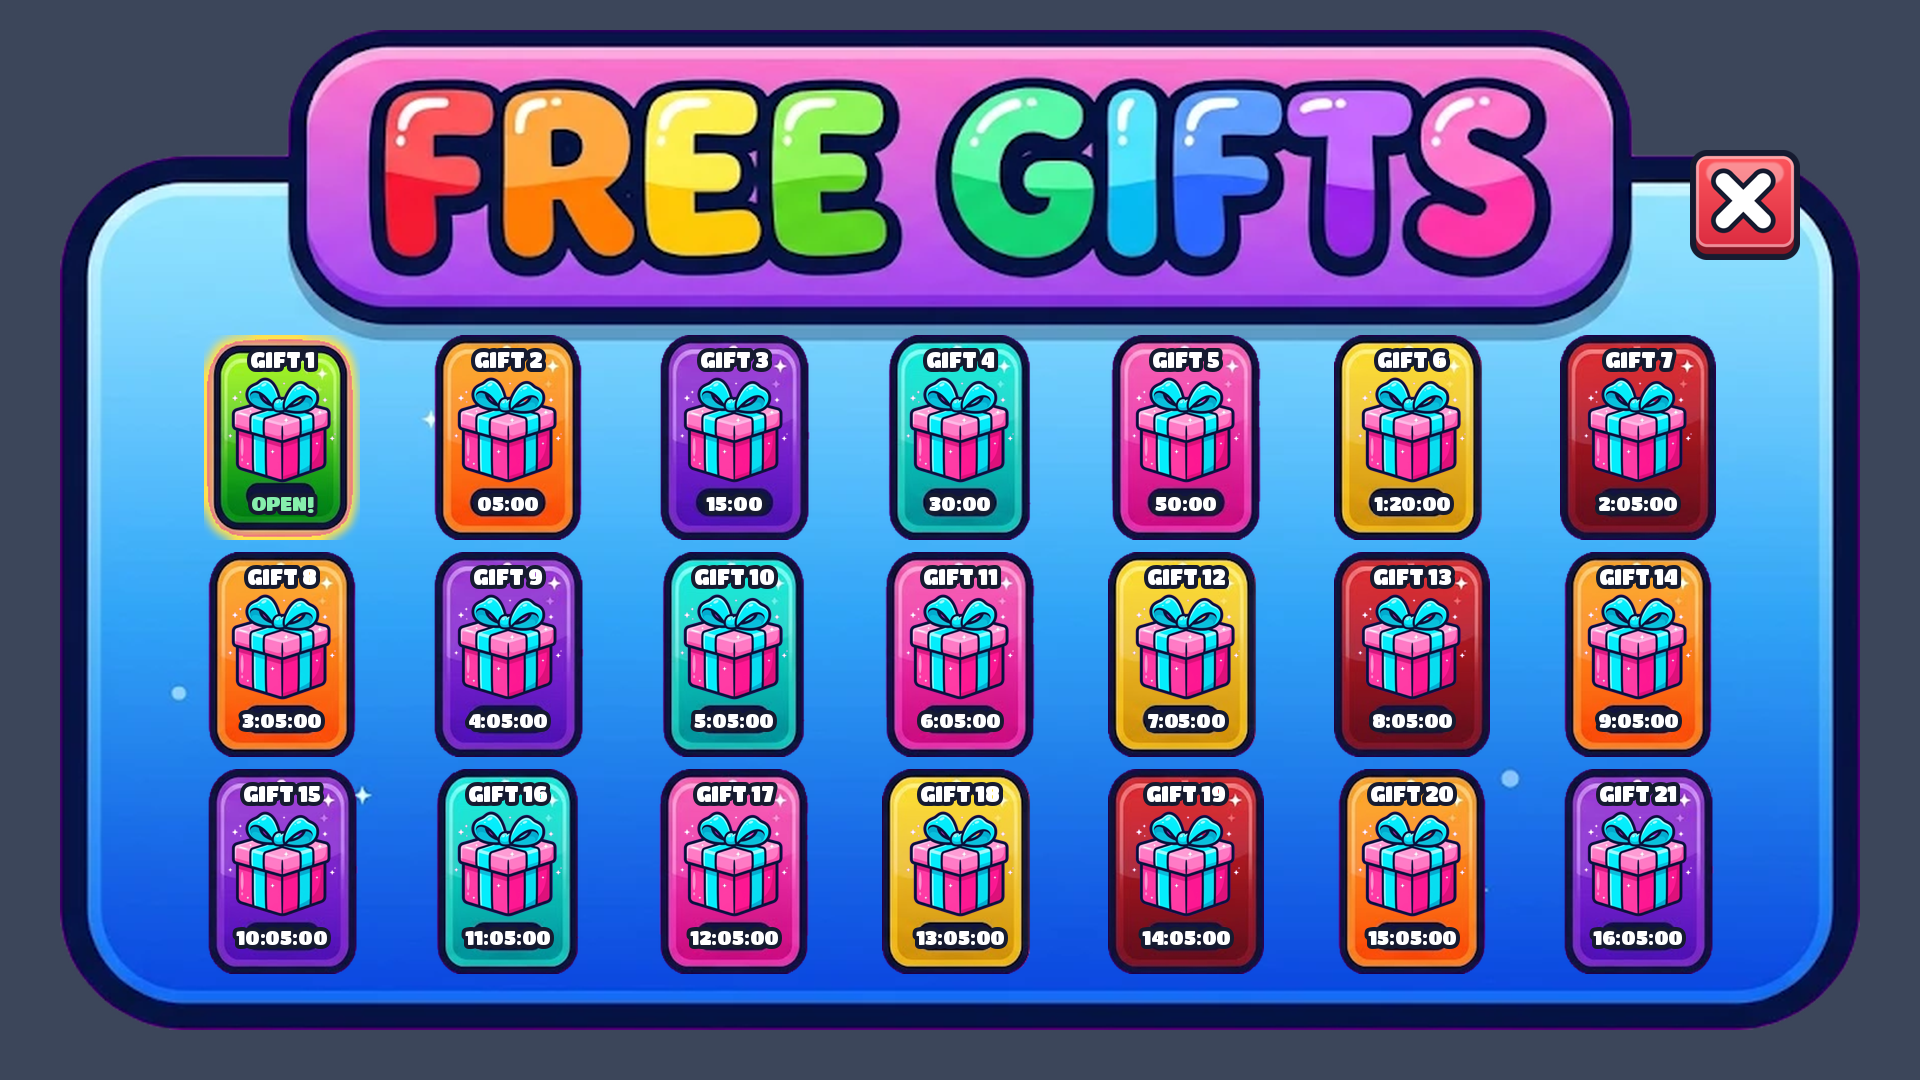
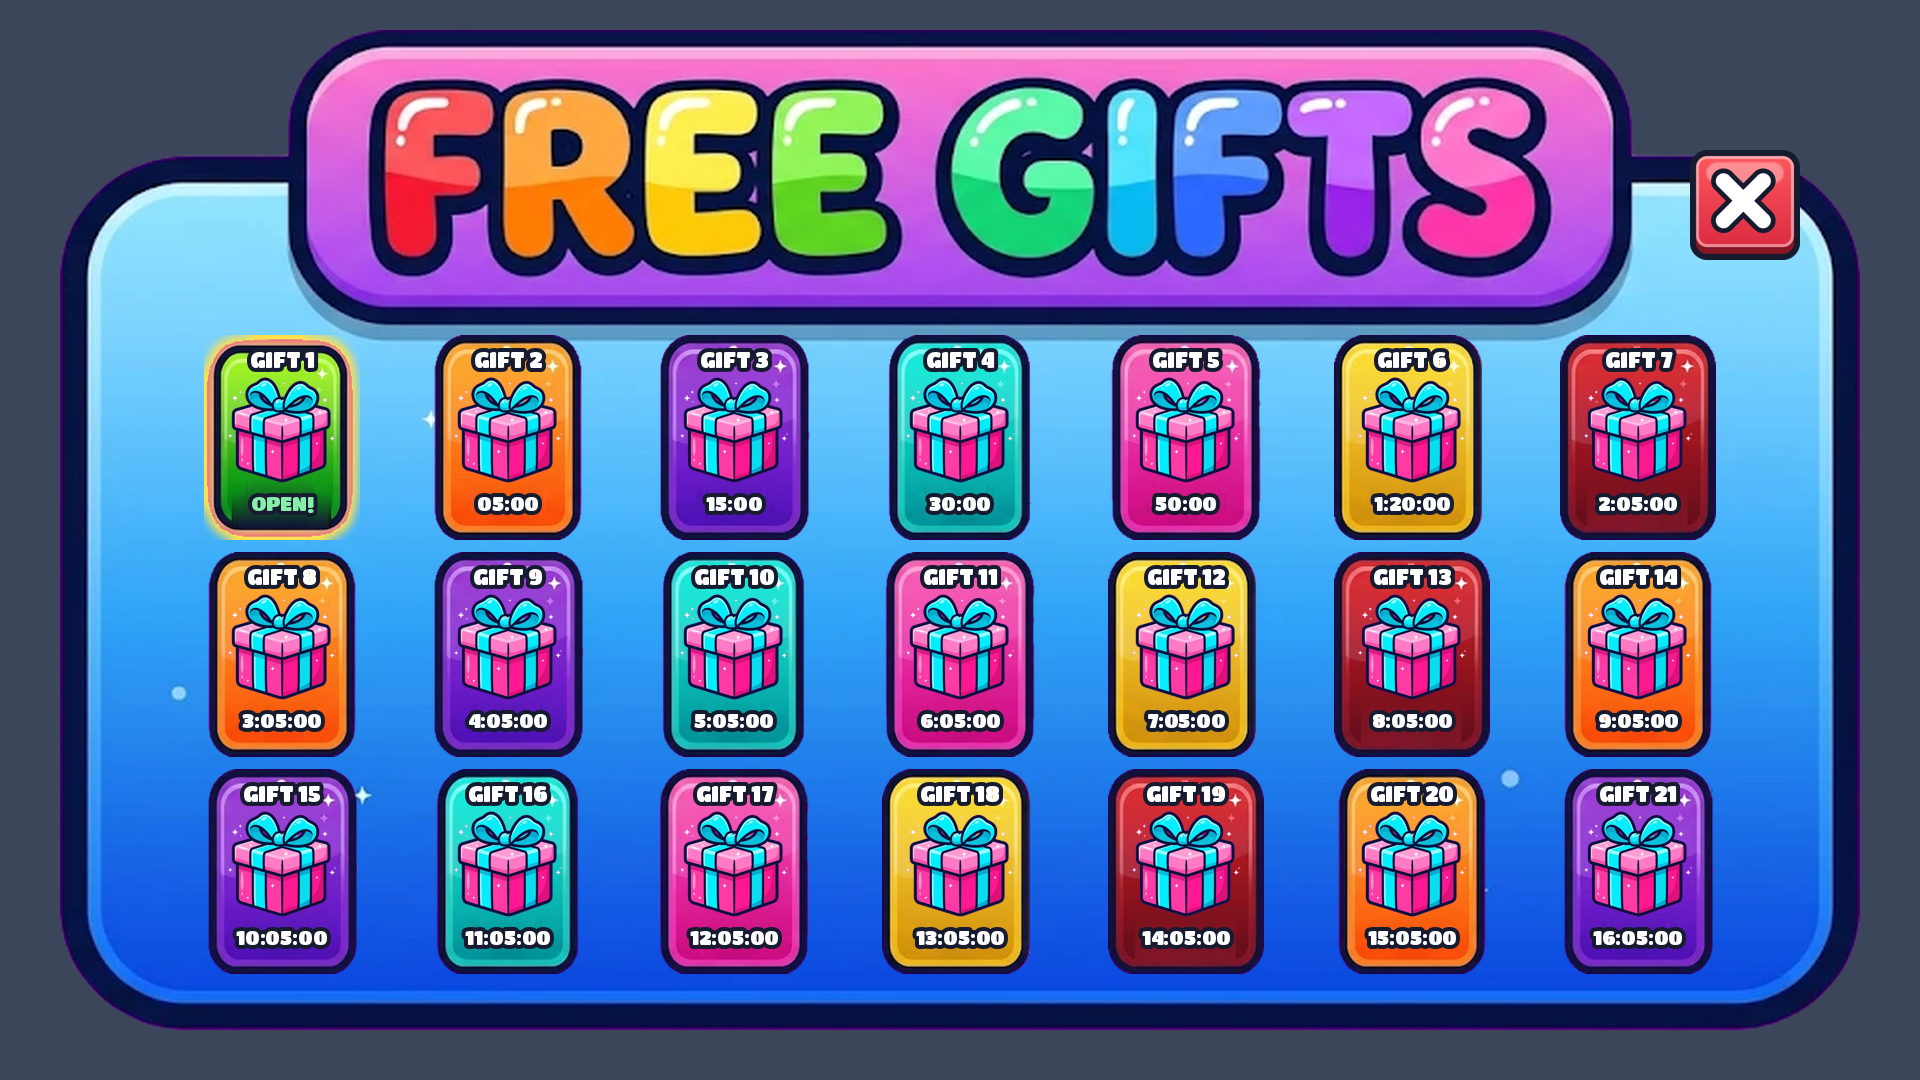
Cadeaux : cartes sans pastille sombre sous le temps
Claude-Session: https://claude.ai/code/session_01PMKoCjSrSzXqgN9hvh9Gpz

diff --git a/Outils/cadeau_gemini.py b/Outils/cadeau_gemini.py
@@ -30,6 +30,28 @@ def detourer(chemin):
     return im
 
 
+def sans_pastille(c):
+    """efface la pastille sombre du bas de la carte (le temps s'ecrit directement sur la carte)"""
+    a = np.asarray(c).copy()
+    h, w = a.shape[:2]
+    rgb = a[..., :3].astype(int)
+    sombre = (rgb.sum(2) < 170) & (a[..., 3] > 200)
+    zone = np.zeros_like(sombre)
+    zone[int(h * 0.68):int(h * 0.94), int(w * 0.18):int(w * 0.82)] = True
+    masque = ndimage.binary_dilation(sombre & zone, iterations=3) & zone
+    # chaque colonne : on remplace la pastille par un degrade entre le pixel juste au-dessus et juste en dessous
+    for x in range(w):
+        ys = np.where(masque[:, x])[0]
+        if len(ys) == 0:
+            continue
+        y0, y1 = ys.min() - 1, ys.max() + 1
+        haut, bas = a[y0, x, :3].astype(float), a[min(y1, h - 1), x, :3].astype(float)
+        for y in range(y0 + 1, y1):
+            t = (y - y0) / (y1 - y0)
+            a[y, x, :3] = (haut * (1 - t) + bas * t).astype(np.uint8)
+    return Image.fromarray(a, "RGBA")
+
+
 def boite(im, seuil=200):
     al = np.asarray(im.getchannel("A"))
     ys, xs = np.where(al > seuil)
@@ -91,5 +113,6 @@ if __name__ == "__main__":
             halo.putalpha(al)
             halo.alpha_composite(c)
             c = halo
+        c = sans_pastille(c)
         c.resize((300, 394), Image.LANCZOS).save(os.path.join(DOS, nom + ".png"))
     print("ok", L, y1 - y0)
